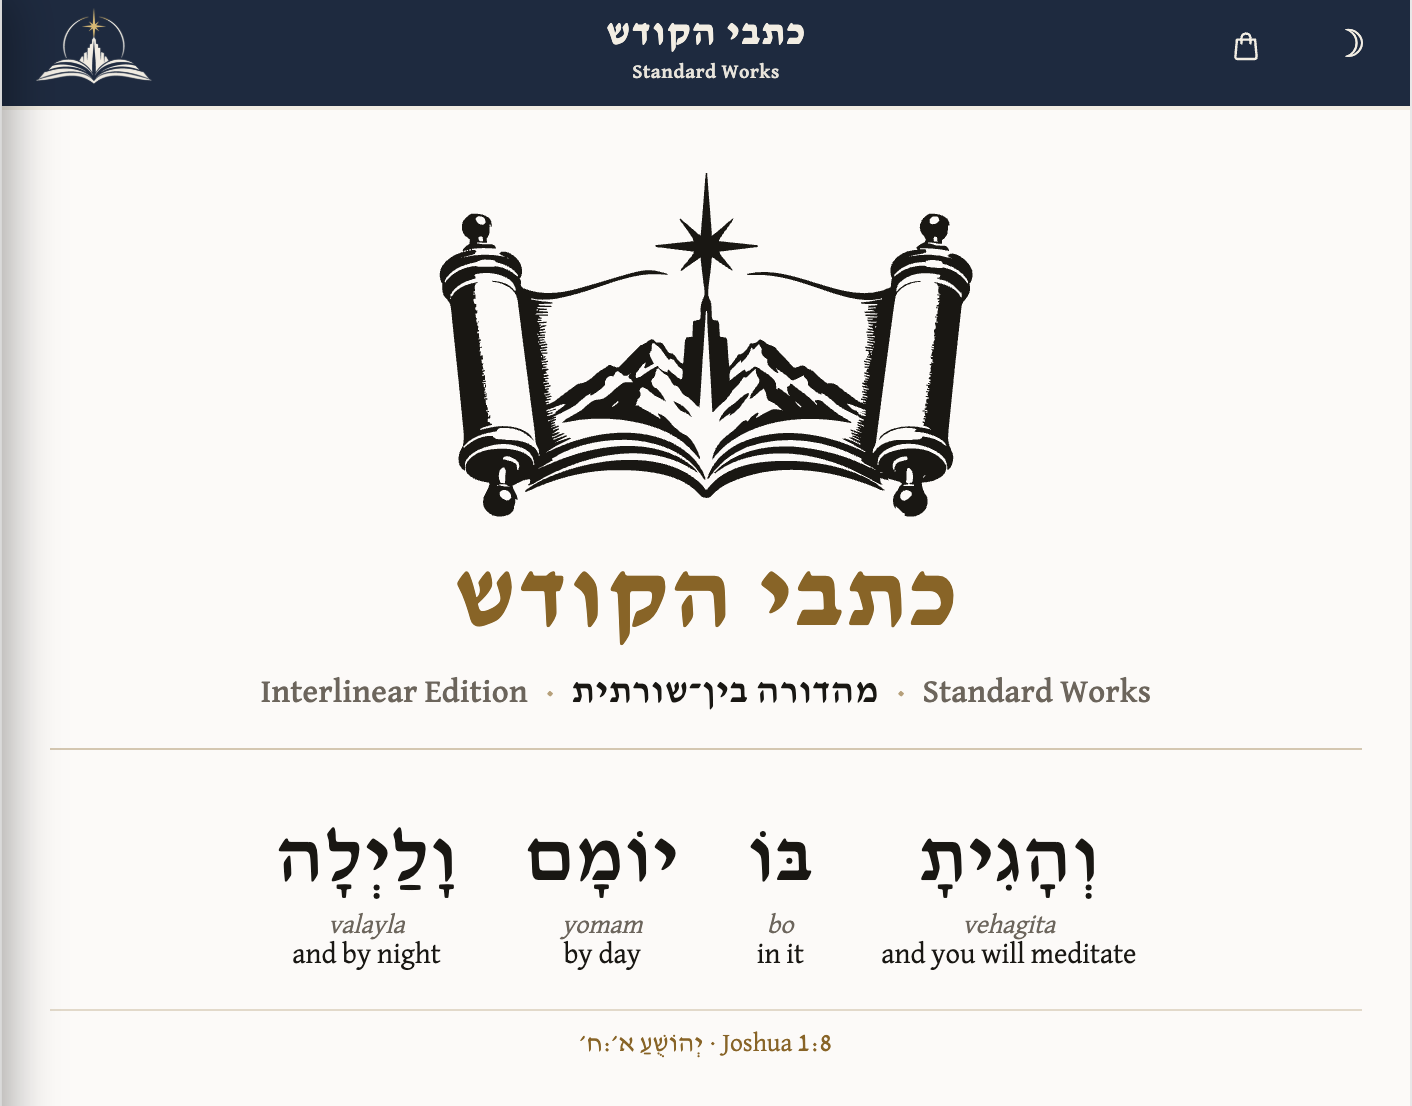
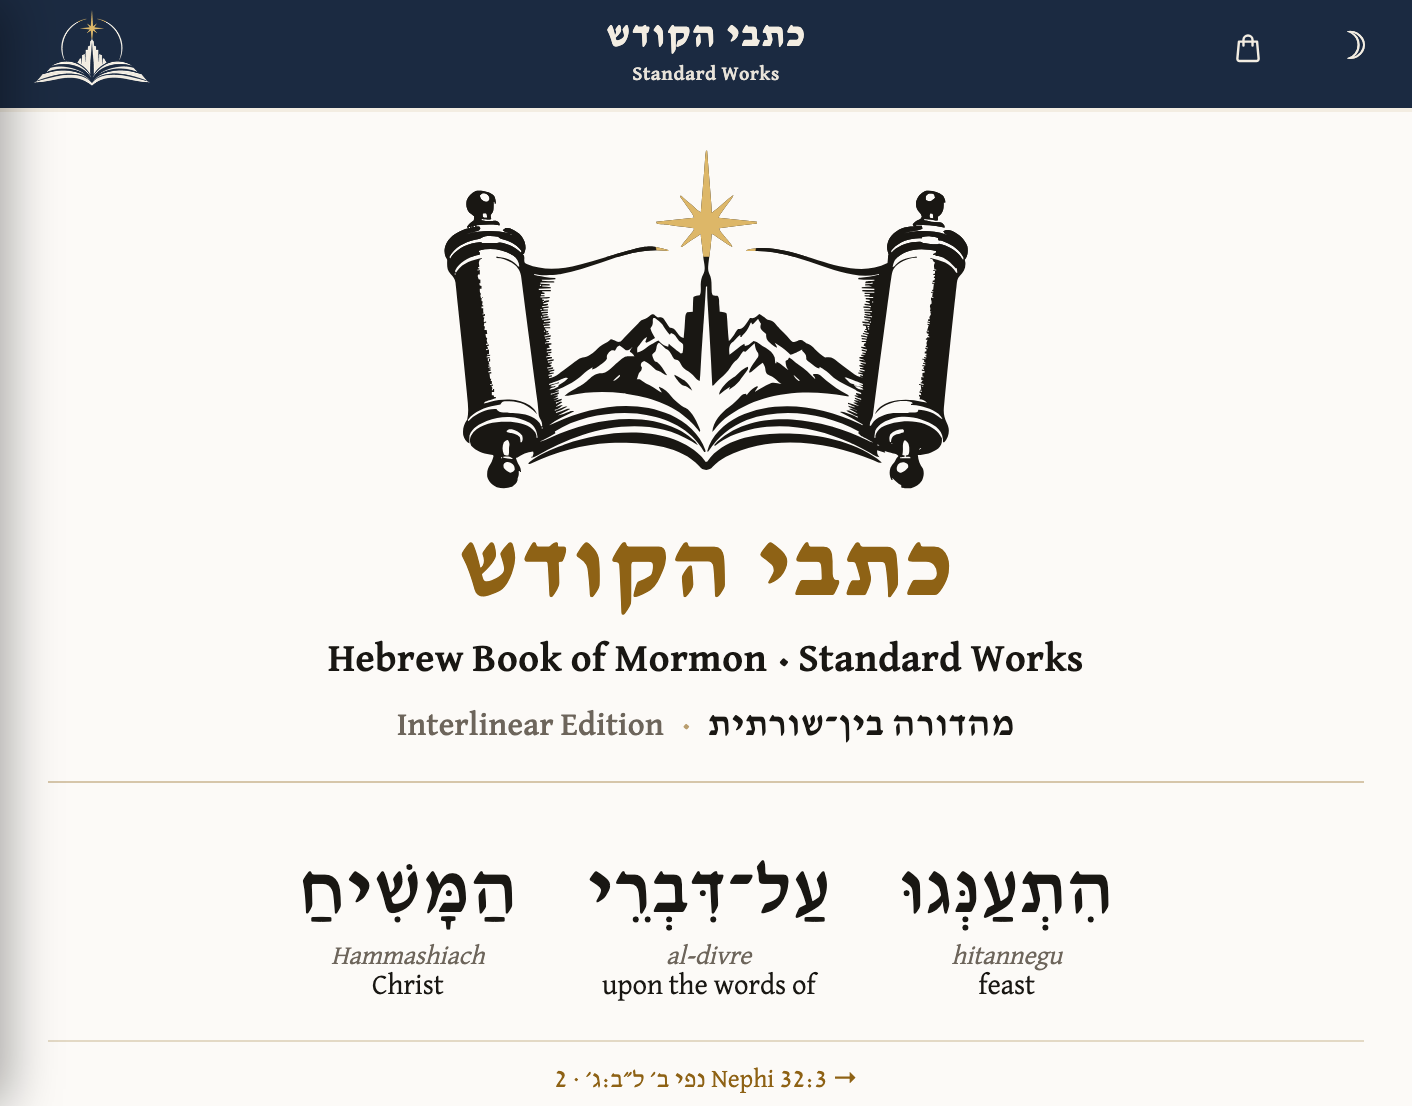
Landing: the specimen is 2 Nephi 32:3, and one door into the book
The translator's choice after a perception audit (2026-09-26): the hero
verse under the title showed Joshua 1:8, a verse any Tanakh site can
show, beneath a title that names the Book of Mormon. Now it shows the
book's own call to read: הִתְעַנְּגוּ עַל־דִּבְרֵי הַמָּשִׁיחַ, "feast upon the
words of Christ", with the reader's own transliteration and glosses,
linking to 2 Nephi 32.

- One primary action under it, "Open the Book of Mormon in Hebrew →"
  (1 Nephi 1): six equal covers were a six-way choice for a visitor who
  came for one book. The button wears the existing primary-button rule
  (.landing-btn, shared with the App Store button); the shelf stays the
  library and the App Store button keeps its place.
- "Start reading →" on a first visit; "Continue reading →" only once
  there is a remembered place to continue from.
- The line under the stats reads "Reviewed chapter by chapter;
  corrections are continual" instead of a disclaimer.
- Share image re-rendered from the new page; alt text and comments
  updated.
- bom.html: the iPhone Add-to-Home-Screen tip waits for a return visit
  instead of sitting above verse 1 on the first.

diff --git a/index.html b/index.html
@@ -38,7 +38,7 @@
 <meta property="og:image:type" content="image/png">
 <meta property="og:image:width" content="1412">
 <meta property="og:image:height" content="1106">
-<meta property="og:image:alt" content="כתבי הקודש — Standard Works, Interlinear Edition: the scroll-book mark above the title, and Joshua 1:8 set word by word in Hebrew with transliteration and English">
+<meta property="og:image:alt" content="כתבי הקודש — Standard Works, Interlinear Edition: the scroll-book mark above the title, and 2 Nephi 32:3 set word by word in Hebrew with transliteration and English">
 <meta property="og:url" content="https://sefermormon.com/">
 <meta property="og:type" content="book">
 <meta property="og:site_name" content="Sefer Mormon">
@@ -326,8 +326,12 @@ button, input, select, textarea, option, optgroup, ::placeholder { font-family: 
    reason this edition exists, and it was previously set small and centred
    below a badge, as garnish. Here it runs the measure at true reading size,
    flush right like the book, so the first thing seen is the artifact rather
-   than a description of it. Joshua 1:8 was already the chosen verse and is
-   the right one: it is about reading this book day and night. */
+   than a description of it. The verse is 2 Nephi 32:3, "feast upon the
+   words of Christ": the translator's choice (2026-09-26) after a perception
+   audit. It is about reading, and it is from the one book no other Hebrew
+   site has. Joshua 1:8 was the first specimen: about reading day and night,
+   but a verse any Tanakh site can show, set under a title that names the
+   Book of Mormon. The specimen demonstrates the unique thing, not the common. */
 .landing-lis {
   margin: 30px 0 0;
   padding: 0;
@@ -365,7 +369,7 @@ button, input, select, textarea, option, optgroup, ::placeholder { font-family: 
 
 /* The prose sets from the left, at a measure you can actually read. It was
    centred, which is comfortable for one line and hostile for five. */
-/* The specimen is a door: the whole block opens Joshua 1 in the reader */
+/* The specimen is a door: the whole block opens 2 Nephi 32 in the reader */
 .lis-link { display: block; color: inherit; text-decoration: none; border-radius: 8px; }
 .lis-link:hover .lis-hw, .lis-link:focus-visible .lis-hw { color: var(--here); }
 .lis-link:focus-visible { outline: 2px solid var(--here); outline-offset: 6px; }
@@ -391,7 +395,7 @@ button, input, select, textarea, option, optgroup, ::placeholder { font-family: 
   line-height: 1.62;
 }
 /* THE ATTRIBUTION LINE. Two-thirds the size of the specimen above it: the
-   Joshua verse is the thesis (what the book is for) and this is the signature
+   specimen verse is the thesis (what the book is for) and this is the signature
    (who made it), so it must not compete. The rule does the work a printed
    edition's rule does before its imprint. */
 .landing-hand {
@@ -413,7 +417,9 @@ button, input, select, textarea, option, optgroup, ::placeholder { font-family: 
   max-width: 640px;
 }
 html.sw-in-app .landing-app-store { display: none; }
-/* The site's primary button, same language as the Search button (.gs-go)
+/* The site's primary button: one rule, worn by the reading door under the
+   specimen (.landing-btn) and by the App Store button; same language as the
+   Search button (.gs-go)
    directly below it: --accent fill, --on-accent text, a dark --header-bg
    edge. It used to be an outlined dark-chrome button whose border and label
    were --accent-light — and --accent-light is --here-chrome, ALWAYS bright
@@ -423,7 +429,7 @@ html.sw-in-app .landing-app-store { display: none; }
    tokens break when --sw-gold falls back to a chrome colour. A paper-facing
    surface takes the paper-scaled accent; only a chrome-backed one takes
    --accent-light. */
-.landing-app-store-link {
+.landing-btn, .landing-app-store-link {
   display: inline-flex;
   align-items: center;
   justify-content: center;
@@ -440,14 +446,14 @@ html.sw-in-app .landing-app-store { display: none; }
   line-height: 1.35;
   transition: background 0.15s, color 0.15s, border-color 0.15s;
 }
-.landing-app-store-link:hover {
+.landing-btn:hover, .landing-app-store-link:hover {
   /* --accent-hover, not --accent-light: this button sits on paper, so its
      hover fill stays in the paper-scaled family instead of flashing mint. */
   background: var(--accent-hover);
   color: var(--on-fill);
   border-color: var(--header-bg);
 }
-.landing-app-store-link:focus-visible {
+.landing-btn:focus-visible, .landing-app-store-link:focus-visible {
   outline: 2px solid var(--accent);
   outline-offset: 3px;
 }
@@ -458,6 +464,12 @@ html.sw-in-app .landing-app-store { display: none; }
   line-height: 1.45;
   direction: rtl;
 }
+/* THE DOOR. The perception audit's finding at the top of the page (2026-09-26):
+   six equal covers are a six-way choice for a visitor who came for one book
+   (Hick 1952), and the hero named that book without offering it. One primary
+   action, under the specimen it continues; the shelf below stays the library,
+   and the App Store button keeps its place further down. */
+.landing-cta { text-align: center; margin: 26px auto 0; max-width: 640px; }
 /* ========== DIVIDER ========== */
 .diamond-divider {
   text-align: center;
@@ -1046,17 +1058,21 @@ body, button, input, select, textarea,
         <p class="landing-he-en"><span class="lh-he" lang="he">מהדורה בין־שורתית</span><span class="lh-sep">·</span>Interlinear Edition</p>
       </div>
 
-      <figure class="landing-lis" aria-label="Joshua 1:8, interlinear">
-        <a class="lis-link" href="ot.html#jos-ch1" aria-label="Open Joshua 1 in the Hebrew reader">
+      <figure class="landing-lis" aria-label="2 Nephi 32:3, interlinear">
+        <a class="lis-link" href="bom/bom.html#2-nephi-32" aria-label="Open 2 Nephi 32 in the Hebrew reader">
         <div class="lis-flow">
-          <span class="lis-wu"><span class="lis-hw">וְהָגִיתָ</span><span class="lis-tl">vehagita</span><span class="lis-gl">and you will meditate</span></span>
-          <span class="lis-wu"><span class="lis-hw">בּוֹ</span><span class="lis-tl">bo</span><span class="lis-gl">in it</span></span>
-          <span class="lis-wu"><span class="lis-hw">יוֹמָם</span><span class="lis-tl">yomam</span><span class="lis-gl">by day</span></span>
-          <span class="lis-wu"><span class="lis-hw">וָלַיְלָה</span><span class="lis-tl">valayla</span><span class="lis-gl">and by night</span></span>
+          <span class="lis-wu"><span class="lis-hw">הִתְעַנְּגוּ</span><span class="lis-tl">hitannegu</span><span class="lis-gl">feast</span></span>
+          <span class="lis-wu"><span class="lis-hw">עַל־דִּבְרֵי</span><span class="lis-tl">al-divre</span><span class="lis-gl">upon the words of</span></span>
+          <span class="lis-wu"><span class="lis-hw">הַמָּשִׁיחַ</span><span class="lis-tl">Hammashiach</span><span class="lis-gl">Christ</span></span>
         </div>
         </a>
-        <figcaption class="lis-ref"><a class="lis-ref-link" href="ot.html#jos-ch1">יְהוֹשֻׁעַ א׳:ח׳ · Joshua 1:8 →</a></figcaption>
+        <figcaption class="lis-ref"><a class="lis-ref-link" href="bom/bom.html#2-nephi-32">נפי ב׳ ל״ב:ג׳ · 2 Nephi 32:3 →</a></figcaption>
       </figure>
+
+      <!-- ===== THE DOOR. One primary action: the book this edition exists for. ===== -->
+      <p class="landing-cta">
+        <a class="landing-btn landing-cta-link" href="bom/bom.html#1-nephi-1">Open the Book of Mormon in Hebrew →</a>
+      </p>
 
     </header>
 
@@ -1164,7 +1180,7 @@ body, button, input, select, textarea,
     <!-- ===== THE SHELF'S FOOT ===== -->
     <div class="shelf-foot">
       <p class="shelf-scale"><span class="sf-n"><b>605,824</b> words of Hebrew</span><span class="sf-sep">·</span><span class="sf-n"><b>1,705</b> chapters</span><span class="sf-sep">·</span><span class="sf-n">six volumes</span></p>
-      <p class="landing-update-note">The interlinear is always being updated for corrections</p>
+      <p class="landing-update-note">Reviewed chapter by chapter; corrections are continual</p>
     </div>
 
     <!-- ===== AFTER THE SHELF: what this is, whose hand, the app ===== -->
@@ -1725,7 +1741,8 @@ document.addEventListener('keydown', function(e) {
   ['ot','nt','bom','dc','pgp','jst'].forEach(function(k) {
     var data = null;
     try { data = JSON.parse(localStorage.getItem('sw-last-read-' + k)); } catch(e) {}
-    if (!data || !data.path || !data.label) data = GS_START[k];
+    var fresh = false;
+    if (!data || !data.path || !data.label) { data = GS_START[k]; fresh = true; }
     if (!data) return;
     var card = document.querySelector('.scripture-card[data-vol="' + k + '"]');
     if (!card) return;
@@ -1734,7 +1751,10 @@ document.addEventListener('keydown', function(e) {
     var a = document.createElement('a');
     a.className = 'card-continue';
     a.href = data.path;
-    a.innerHTML = 'Continue reading \u2192 <span class="cc-ref"></span>';
+    // A first visit has nothing to continue: the label says what will happen
+    // (perception audit, 2026-09-26). It reads "Continue" once there is a
+    // remembered place to continue from.
+    a.innerHTML = (fresh ? 'Start reading' : 'Continue reading') + ' \u2192 <span class="cc-ref"></span>';
     a.querySelector('.cc-ref').textContent = data.vlabel || data.label;
     a.addEventListener('click', function(e) { e.stopPropagation(); });
     lab.appendChild(a);

diff --git a/bom/bom.html b/bom/bom.html
@@ -8685,9 +8685,18 @@ NavEngine.init({
     var btn = document.getElementById('safari-browser-tip-dismiss');
     if (!tip || !btn) return;
     if (!isIOS() || isStandalone()) return;
+    /* THE FIRST VISIT IS THE FIRST IMPRESSION: the text, and nothing above
+       it. The tip waits for a return visit, when adding the book to the Home
+       Screen is a question the reader has a reason to ask (perception audit,
+       2026-09-26). Storage that cannot be read counts as a return visit, as
+       the dismiss check always treated it. */
+    var returning = true;
     try {
       if (localStorage.getItem('bom-dismiss-safari-tip') === '1') return;
+      returning = localStorage.getItem('bom-safari-tip-visited') === '1';
+      if (!returning) localStorage.setItem('bom-safari-tip-visited', '1');
     } catch (e) {}
+    if (!returning) return;
     tip.removeAttribute('hidden');
     tip.classList.add('show');
     btn.addEventListener('click', function() {

diff --git a/bom/sw.js b/bom/sw.js
@@ -4,7 +4,7 @@
     the hook did not touch it (it pointed at scripts/write_build_version.js,
     which does not exist), so the list below had been frozen for days and
     every Book of Mormon asset change was served stale. Never hand-edit. */
-const CACHE = 'bom-2026-09-26T13-30-26';
+const CACHE = 'bom-2026-09-26T22-17-51';
 /** Shell only — verse *.js files are cached at runtime, refreshed in the background (see fetch handler). */
 const ASSETS = [
   './bom.html',

diff --git a/service-worker.js b/service-worker.js
@@ -1,5 +1,5 @@
 /** Replaced on deploy by scripts/write_build_version.js (GITHUB_SHA). */
-const BUILD_ID = '2026-09-26T13-30-26';
+const BUILD_ID = '2026-09-26T22-17-51';
 const CACHE_NAME = 'standard-works-' + BUILD_ID;
 const OFFLINE_CACHE = 'standard-works-offline-v2';
 
